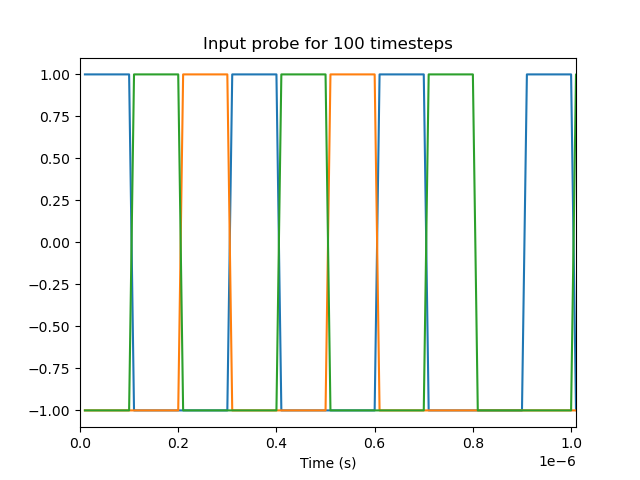
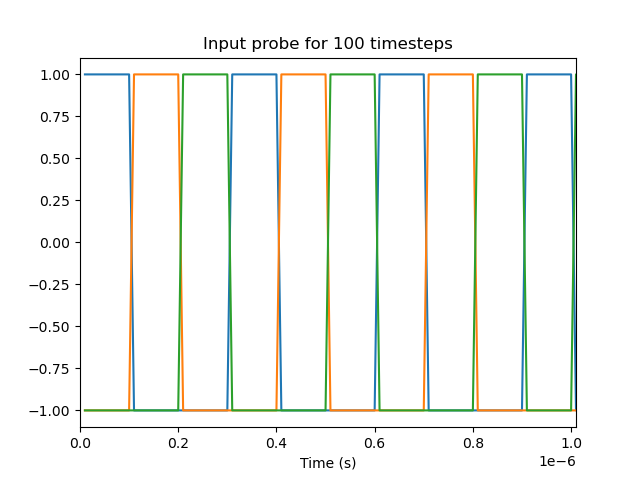
two layers with learning experiment

diff --git a/two-layers.py b/two-layers.py
@@ -51,7 +51,7 @@ with model:
             dimensions=3,  # each neuron is connected to all (3) input channels.
             # Set intercept to 0.5
             intercepts=Uniform(-0.00001, 0.00001),  # Set the intercepts at 0.00001 (threshold for Soma voltage)
-            neuron_type=nengo.LIF(min_voltage=0, tau_ref=0.0000000005, tau_rc=0.00000001),  # Specify type of neuron
+            neuron_type=nengo.LIF(min_voltage=-1, tau_ref=5e-11, tau_rc=0.00000001),  # Specify type of neuron
             # Set tau_ref= or tau_rc = here to
             # change those
             # parms
@@ -59,52 +59,138 @@ with model:
             # neurons.
             max_rates=Uniform(500e+6, 500e+6),             # Set the maximum firing rate of the neuron 500Mhz
             # Set the neuron's firing rate to increase for 2 combinations of 3 channel input.
-            encoders=[[-1, -1, 1], [-1, 1, -1], [1, -1, -1], [-1, -1, -1]],
+            #encoders=[[-1, -1, 1], [-1, 1, -1], [1, -1, -1], [-1, -1, -1]],
         )
 
         neuronsL2 = nengo.Ensemble(
             6,  # Number of neurons
             dimensions=3,
             # Set intercept to 0.5
-            intercepts=Uniform(-0.00001, 0.00001),  # Set the intercepts at 0.00001 (threshold for Soma voltage)
-            neuron_type=nengo.LIF(min_voltage=0, tau_ref=0.0000000005, tau_rc=0.00000001),  # Specify type of neuron
+            intercepts=Uniform(-0.1, 0.1),  # Set the threshold for Soma voltage
+            neuron_type=nengo.LIF(min_voltage=-1, tau_ref=5e-11, tau_rc=5e-6),  # Specify type of neuron
             # Set tau_ref= or tau_rc = here to
             # change those
             # parms
             # for the
             # neurons.
-            max_rates=Uniform(500e+6, 500e+6),  # Set the maximum firing rate of the neuron 500Mhz
+            max_rates=Uniform(5e+8, 5e+8),  # Set the maximum firing rate of the neuron 500Mhz
             # Set the neuron's firing rate to increase for 2 combinations of 3 channel input.
-            encoders=[[1, -1, -1], [-1, 1, -1], [-1, -1, 1], [ -1, -1, -1], [1, 1, 1], [1, 1, -1]],
+            #encoders=[[1, -1, -1], [-1, 1, -1], [-1, -1, 1], [ -1, -1, -1], [1, 1, 1], [1, 1, -1]],
         )
 
-threeChannels, end_channel = phase_automata(driving_symbol="1", probability_of_transition=True,timesteps=9)
-print(threeChannels)
-tC = threeChannels.transpose((1, 0))
-print(tC)
+threeChannels1, end_channel = phase_automata(driving_symbol="1", probability_of_transition=False,timesteps=9)
+threeChannels0, end_channel0 = phase_automata(driving_symbol="0", probability_of_transition=False,timesteps=9)
+labels0 = np.zeros((9,2),dtype=float)
+labels1 = np.ones((9,2),dtype=float)
+bothLabels = np.concatenate((labels0,labels1),axis=0)
+bothPatterns = np.concatenate((threeChannels0,threeChannels1),axis=1)
+
+tC = bothPatterns.transpose((1, 0))
+labels = bothLabels
 with model:
     input_signal = nengo.Node(PresentInput(tC, presentation_time=1e-7))
+    input_keys = nengo.Node(PresentInput(labels,presentation_time=1e-7))
 
 with model:
     nengo.Connection(input_signal, neurons, synapse=None)
-    nengo.Connection(neurons, neuronsL2, synapse=None)
+    nengo.Connection(neurons, neuronsL2, synapse=1e-7)
 
-
+simT = 1e-4
 with model:
     input_probe = nengo.Probe(input_signal)  # The original input
+    spikes = nengo.Probe(neurons.neurons)  # Raw spikes from each neuron
     spikesL2 = nengo.Probe(neuronsL2.neurons)  # Raw spikes from each neuron
     # Subthreshold soma voltages of the neurons
-    #voltage = nengo.Probe(neurons.neurons, 'voltage')
+    voltage = nengo.Probe(neurons.neurons, 'voltage')
     voltageL2 = nengo.Probe(neuronsL2.neurons, 'voltage')
     # Spikes filtered by a 10ms post-synaptic filter
     filteredL2 = nengo.Probe(neuronsL2, synapse=1e-8)
+    learning = nengo.Node(output=lambda t: -int(t >= simT / 2))
+    recall = nengo.Node(size_in=3)
+    #guess = nengo.Probe(best_guess,synapse=1e-8)
+
+    # Learn the encoders/keys
+    voja = nengo.Voja(learning_rate=5e-5, post_synapse=None)
+    conn_in = nengo.Connection(input_signal, neuronsL2, synapse=None, learning_rule_type=voja)
+    nengo.Connection(learning, conn_in.learning_rule, synapse=None)
+    # Learn the decoders/values, initialized to a null function
+    conn_out = nengo.Connection(
+        neuronsL2,
+        recall,
+        learning_rule_type=nengo.PES(1e-2),
+        function=lambda x: np.zeros(3),
+    )
+
+    # Create the error population
+    error = nengo.Ensemble(6, 3,intercepts=Uniform(-0.1, 0.1),  # Set the threshold for Soma voltage
+            neuron_type=nengo.LIF(min_voltage=0, tau_ref=5e-12, tau_rc=5e-7),  # Specify type of neuron
+            # Set tau_ref= or tau_rc = here to
+            # change those
+            # parms
+            # for the
+            # neurons.
+            max_rates=Uniform(5e+9, 5e+9),  # Set the maximum firing rate of the neuron 500Mhz
+     )
+    nengo.Connection(
+        learning, error.neurons,transform=[[10.0]] * 6, synapse=None
+    )
+
+    # Calculate the error and use it to drive the PES rule
+    nengo.Connection(input_signal, error, transform=-1, synapse=None)
+    nengo.Connection(recall, error, synapse=None)
+    nengo.Connection(error, conn_out.learning_rule)
+
+    # Setup probes
+    p_keys = nengo.Probe(input_keys, synapse=None)
+    p_values = nengo.Probe(input_signal, synapse=None)
+    p_learning = nengo.Probe(learning, synapse=None)
+    p_error = nengo.Probe(error, synapse=1e-8)
+    p_recall = nengo.Probe(recall, synapse=None)
+    p_encoders = nengo.Probe(conn_in.learning_rule, "scaled_encoders")
+    
     
 with nengo.Simulator(model, dt=1e-8) as sim:  # Create a simulator
-    sim.run(1000000e-9)  # Run it for 10k nanosecond
+    sim.run(simT)  # Run 
     
 t = sim.trange()
 
-plot_range = 100  # index
+
+plt.figure()
+plt.title("Keys")
+plt.plot(t, sim.data[p_keys])
+#plt.ylim(-1, 1)
+plt.show()
+
+plt.figure()
+plt.title("Values")
+plt.plot(t, sim.data[p_values])
+#plt.ylim(-1, 1)
+plt.show()
+
+plt.figure()
+plt.title("Learning")
+plt.plot(t, sim.data[p_learning])
+#plt.ylim(-1.2, 0.2)
+plt.show()
+
+
+train = t <= simT / 2
+test = ~train
+
+plt.figure()
+plt.title("Value Error During Training")
+plt.plot(t[train], sim.data[p_error][train])
+plt.show()
+
+plt.figure()
+plt.title("Value Error During Recall")
+plt.plot(t[test], sim.data[p_recall][test] - sim.data[p_values][test])
+plt.show()
+
+plot_range = 100 # index
+
+
+
 # Plot the decoded output of the ensemble
 plt.figure()
 plt.plot(t, sim.data[input_probe])
@@ -120,18 +206,49 @@ plt.xlabel("Time (s)")
 plt.xlim(0, t[plot_range])
 plt.savefig("fig/two_layers_filtered.png")
 
+plt.clf()
+plt.figure()
+plt.title("NeuronsL2 Best guess filtered probe for " + str(plot_range) + " timesteps")
+#plt.plot(t, sim.data[guess])
+plt.xlabel("Time (s)")
+plt.xlim(0, t[plot_range])
+plt.savefig("fig/two_layers_best_guess.png")
+
 # Plot the spiking output of the ensemble
-plt.figure(figsize=(10, 4))
+plt.figure(figsize=(8, 8))
+
+
+plt.subplot(2, 2, 1)
 plt.title("Neuron Spikes")
-plt.subplot(1, 2, 1)
+plt.xlabel("Time (s)")
+rasterplot(t[0:plot_range], sim.data[spikes][0:plot_range], colors=['y', 'm', 'k', 'r'])
+plt.yticks((1,2,3,4), ("0" ,"1" ,"2","3"))
+plt.ylim(4.5, 0.5)
+
+# Plot the soma voltages of the neurons
+plt.subplot(2, 2, 2)
+plt.title("Neuron Soma Voltage")
+
+plt.plot(t, sim.data[voltage][:, 3] + 0, 'r')
+plt.plot(t, sim.data[voltage][:, 2]+1, 'k')
+plt.plot(t, sim.data[voltage][:, 1]+2, 'm')
+plt.plot(t, sim.data[voltage][:, 0]+3, 'y')
+plt.xlabel("Time (s)")
+plt.yticks(())
+plt.subplots_adjust(wspace=0.1)
+
+
+plt.subplots_adjust(hspace=0.4)
+plt.subplot(2, 2, 3)
+plt.title("Neuron Spikes L2")
 plt.xlabel("Time (s)")
 rasterplot(t[0:plot_range], sim.data[spikesL2][0:plot_range], colors=['y', 'm', 'k', 'r','b','g'])
 plt.yticks((1,2,3,4,5,6), ("0" ,"1" ,"2","3", "4","5"))
 plt.ylim(6.5, 0.5)
 
 # Plot the soma voltages of the neurons
-plt.subplot(1, 2, 2)
-plt.title("Neuron Soma Voltage")
+plt.subplot(2, 2, 4)
+plt.title("Neuron Soma Voltage L2")
 plt.plot(t, sim.data[voltageL2][:, 5] + 0, 'g')
 plt.plot(t, sim.data[voltageL2][:, 4] + 1, 'b')
 plt.plot(t, sim.data[voltageL2][:, 3] + 2, 'r')
@@ -140,5 +257,5 @@ plt.plot(t, sim.data[voltageL2][:, 1]+4, 'm')
 plt.plot(t, sim.data[voltageL2][:, 0]+5, 'y')
 plt.xlabel("Time (s)")
 plt.yticks(())
-plt.subplots_adjust(wspace=0.05)
+plt.subplots_adjust(wspace=0.1)
 plt.savefig("fig/two_layers.png")

diff --git a/two-neurons.py b/two-neurons.py
@@ -87,7 +87,7 @@ with model:
     
 with nengo.Simulator(model, dt=1e-8) as sim:  # Create a simulator
     sim.run(10000e-9)  # Run it for 10k nanosecond
-    print(neurons.intercepts)
+    print(neurons.neurons)
     #print(neurons.encoders.sample(1, d=3))
     
 t = sim.trange()
